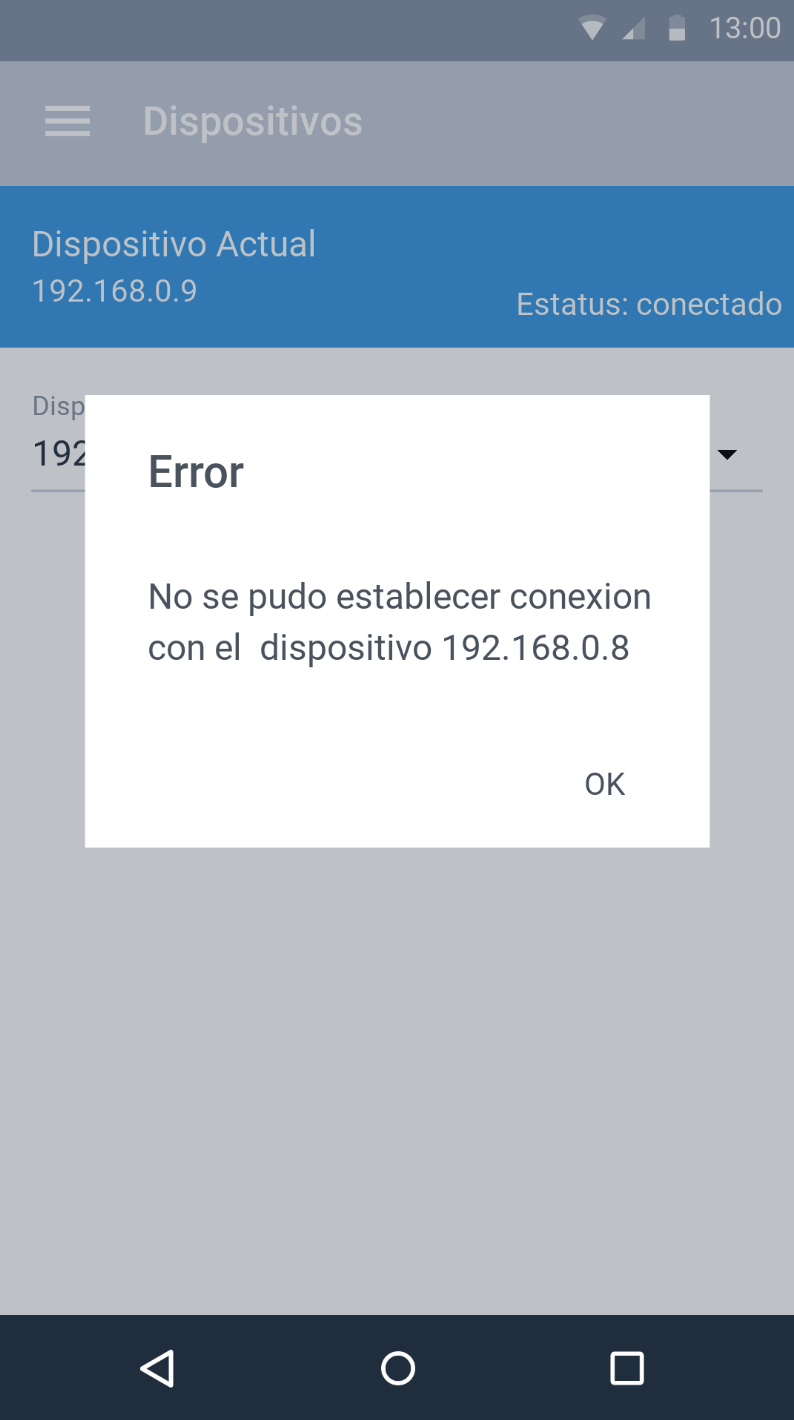
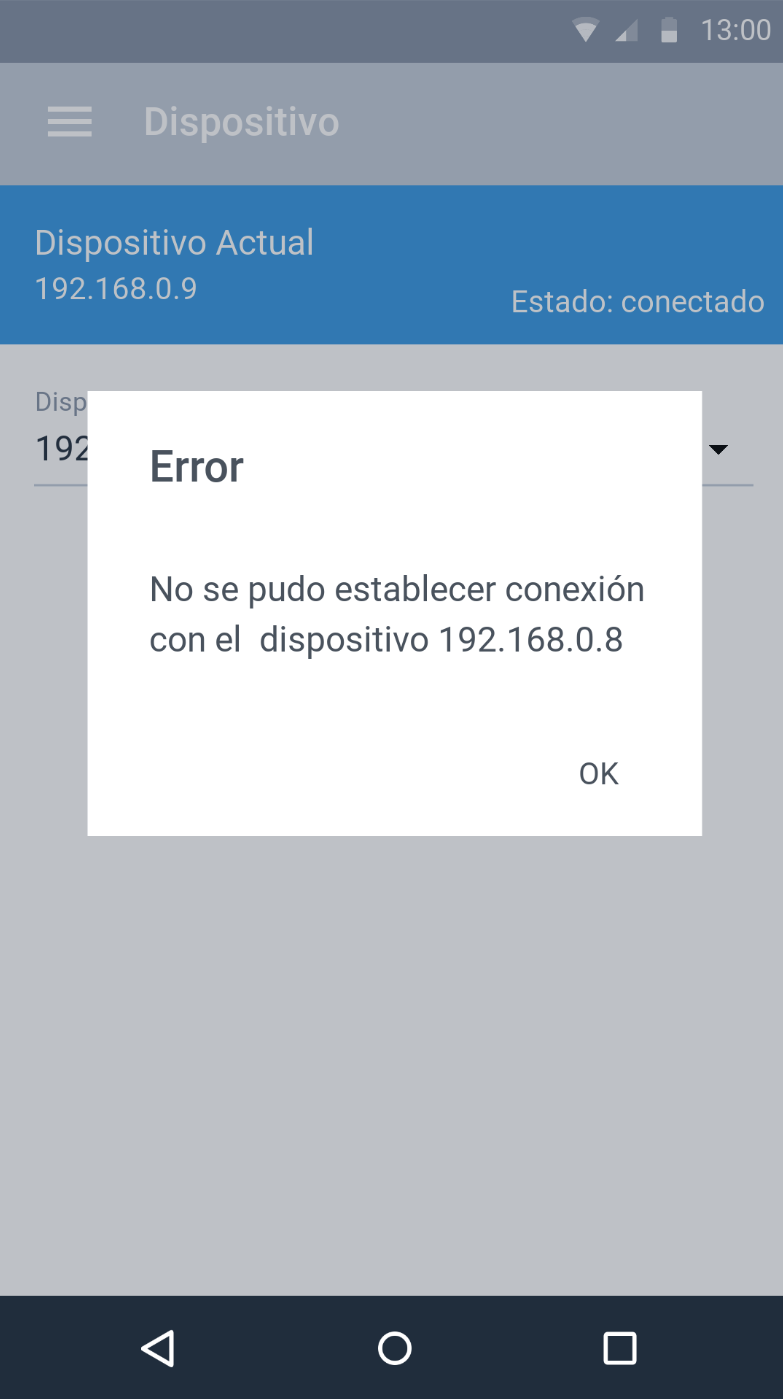
Updates from Overleaf

diff --git a/Capitulo4/software/menus.tex b/Capitulo4/software/menus.tex
@@ -1,11 +1,18 @@
 \subsubsection{Interfaces de Usuario}\label{Interfaces de Usuario}
 
-A continuación se muestra la pantalla principal que será visible siempre que se abra la aplicación, en ella se encuentra una gráfica con las muestras tomadas durante el transcurso del día, la cual nos permite ver el rendimiento de nuestro sistema. En la parte inferior vamos a poder observar la mejor marca de producción del día en Kw/Hr, y debajo de esta el estado de generación actual, es decir el valor sensado en ese mismo instante de tiempo en el que mantenemos abierta la aplicación, el cual se actualizará cada segundo. En la parte superior izquierda cuenta con una barra de navegación la cual nos permite acceder a otros componentes de la aplicación.  
+A continuación se muestra la pantalla principal que será visible siempre que se inicie la aplicación, bajo la barra de navegación encontraremos una barra de selección de nodo del sistema del cual visualizaremos la gráfica con las muestras tomadas durante el transcurso del día, por defecto mostrará los del primer o único nodo. En la parte inferior vamos a poder observar la mejor marca de producción del día en Kw/Hr, y debajo de esta el estado de generación actual, es decir, el valor sensado en ese mismo instante de tiempo en el que mantenemos abierta la aplicación, el cual se actualizará cada segundo. En la parte superior izquierda cuenta con una barra de navegación la cual nos permite acceder a otros componentes de la aplicación.  
 
 \begin{figure}[H]
 	\centering
 	\includegraphics[scale=0.70]{Capitulo4/software/submodulos/images/monitoreo.png}
-	\caption{Interfaz de usuario IU1-Ver Generación En Tiempo Real}
+	\caption{Interfaz de usuario IU1.1-Ver Generación En Tiempo Real}
+	\label{fig:monitoreo}
+\end{figure}
+
+\begin{figure}[H]
+	\centering
+	\includegraphics[scale=0.70]{Capitulo4/software/submodulos/images/monitoreo_sel.png}
+	\caption{Interfaz de usuario IU1.2-Ejemplo de opciones de selección de Nodo}
 	\label{fig:monitoreo}
 \end{figure}
 
@@ -18,7 +25,7 @@ La pantalla mostrada a continuación contiene las 4 posibles opciones que tiene 
 	\label{fig:Barra de navegacion}
 \end{figure}
 
-En la siguiente pantalla podemos observar la pantalla de históricos (opción disponible en la barra de navegación de la pantalla \ref{fig:Barra de navegacion}) , la cual por default siempre que sea accedida mostrará la gráfica de generación semanal. La pantalla posee un combo box en donde podremos seleccionar los 3 diferentes periodos a graficar, es decir, semanal, mensual y bimestral.
+En la siguiente pantalla podemos observar la pantalla de históricos (opción disponible en la barra de navegación de la pantalla \ref{fig:Barra de navegacion}) , la cual por defecto siempre que sea accedida mostrará la gráfica de generación semanal y con el primer o único nodo. La pantalla posee dos barras de selección, una en donde podremos seleccionar los 3 diferentes periodos a graficar, es decir, semanal, mensual y bimestral, y la segunda donde podremos seleccionar de que nodo del sistema nos mostrará la información histórica. 
 
 \begin{figure}[H]
 	\centering
@@ -56,7 +63,7 @@ La pantalla siguiente (opción disponible en la barra de navegación de la panta
 	\centering
 	\includegraphics[scale=0.70]{Capitulo4/software/submodulos/images/dispositivos.png}
 	\caption{Interfaz de usuario IU3.1-Emparejamiento de Dispositivos}
-	\label{fig:Emparejamiento Dispositivos}
+	\label{fig:Emparejamiento Dispositivo}
 \end{figure}
 
 Como se explica en la pantalla anterior, si damos clic en los dispositivos disponibles se despliega una lista con los dispositivos con los que se puede realizar una conexión, esto es visible en la pantalla mostrada a continuación.

diff --git a/Capitulo2/marco_teorico.tex b/Capitulo2/marco_teorico.tex
@@ -121,7 +121,44 @@ Diseñado específicamente para interconexiones en el sistema de distribución m
 	\caption{Microinversor M1-01-250}
 	\label{fig:diagrama_dispensador}
 \end{figure}
+
+
+\paragraph{Factor de Potencia}
+
+Para entender qué es el factor de potencia, primeramente vamos a definir una serie de conceptos básicos \citep{FP}.
+
+kW.- Potencia de trabajo, también llamada potencia activa, potencia real, etc. Es la potencia que se transforma en trabajo útil.
+
+kVAr.- Potencia reactiva. Es la potencia que los inductores necesitan para generar el flujo magnético y permitir crear un campo eléctrico.
+
+kVA.- Potencia aparente. Es la suma vectorial de los kVAr más los kW.
  
+El factor de potencia se define como la relación entre la potencia activa y la potencia aparente:
+
+\[ FP = kW / kVAr + kVA \]
+
+Esto quiere decir que, entre más potencia reactiva, menor factor de potencia, por lo tanto nuestro trabajo útil disminuirá y viceversa.\\
+
+La relación entre estos tres conceptos se materializa en el triángulo de potencias:
+
+\begin{figure}[H]
+	\centering
+	\includegraphics[scale=.50]{Capitulo2/images/triangulo-potencias.jpg}
+	\caption{Triangulo de Potencias}
+	\label{fig:diagrama_dispensador}
+\end{figure}
+
+\[ FP = kW / kVA = cos\theta \]
+\[ FP = kVar / kVA = sin\theta \]
+
+
+Por último, en este tema también es importante hablar de los tipos de cargas que existen:
+\\
+Resistencias.- Las resistencias se comportan como elementos no inerciales bajo el punto de vista de la relación tensión/intensidad, es decir, no se establece ninguna descoordinación temporal entre una y otra.\\
+
+Inductancias.- Las inductancias, por el contrario, se comportan como elementos con una inercia no despreciable desde el punto de vista de la relación tensión/intensidad, provocando una descoordinación temporal, un retraso en este caso, de la intensidad en relación a la tensión de alimentación.\\
+
+Capacitancias.- Finalmente las capacitancias, que se comportan también como elementos inerciales de naturaleza contraria a las inductancias, produciendo en este caso un adelanto de la intensidad en relación a la tensión de alimentación.
  
  \section{Wi-Fi}
  \paragraph{}

diff --git a/Capitulo1/descripcion_documento.tex b/Capitulo1/descripcion_documento.tex
@@ -2,7 +2,7 @@
 %                    Descripción del documento                           %
 %%%%%%%%%%%%%%%%%%%%%%%%%%%%%%%%%%%%%%%%%%%%%%%%%%%%%%%%%%%%%%%%%%%%%%%%%
 \section{Resumen}
-El sistema que se describe y diseña a continuación tiene como objetivo el monitoreo de generación de energía de un sistema fotovoltaico mediante el uso de una aplicación móvil bajo el concepto del internet de las cosas, que se refiere a una interconexión digital de objetos cotidianos con internet.
+El Sistema descrito y diseñado a continuación tiene como objetivo el monitoreo de la generación de energía de un Sistema fotovoltaico mediante el desarrollo de: un módulo de monitoreo que internamente está conformado por el dispositivo de sensado, el cual se comunica a su vez con el microcontrolador; un sistema embebido que permitirá el procesamiento y almacenamiento de la información monitoreada y una aplicación móvil que permita mantener informado al usuario sobre el estado del Sistema fotovoltaico, bajo el concepto del internet de las cosas, que se refiere a una interconexión digital de objetos cotidianos con Internet.
 
 \section{Palabras clave}
 Sistema embebido, IoT, Sistema Fotovoltaico, Nodo sensor, Red de sensores.

diff --git a/Capitulo1/justificacion.tex b/Capitulo1/justificacion.tex
@@ -3,4 +3,4 @@
 %%%%%%%%%%%%%%%%%%%%%%%%%%%%%%%%%%%%%%%%%%%%%%%%%%%%%%%%%%%%%%%%%%%%%%%%%
 \section{Justificación}
 El incremento en el uso de fuentes de energía renovables en la actualidad tiene cada vez mayor relevancia debido a que en países como México, tiene un costo inferior de obtención que los combustibles fósiles \citep{Not1}, gracias al progreso que se ha logrado en este campo, la utilización de energía solar incrementó en un 13\% en México en el 2018 \citep{Not2}, siendo así la energía fotovoltaica una de las fuentes renovables más accesibles y eficientes para su aplicación en proyectos de pequeña o gran magnitud.
-El presente trabajo terminal ofrece un sistema que permitirá a los usuarios de sistemas fotovoltaicos consultar y monitorear mediante una aplicación las variables de voltaje y corriente para que estos tengan conocimiento de la producción de energía de la instalación.
+El presente trabajo terminal ofrece un sistema que permitirá a los usuarios de sistemas fotovoltaicos consultar y monitorear mediante una aplicación las variable de potencia activa para que estos tengan conocimiento de la producción de energía de la instalación.

diff --git a/Capitulo4/hardware/principal.tex b/Capitulo4/hardware/principal.tex
@@ -1,11 +1,11 @@
 \section{Hardware}
-En la imagen \ref{fig:circuito} se muestra el circuito que será utilizado para realizar la medición del flujo de gasolina y la comunicación por medio de bluetooth a la aplicación móvil.
+En la figura \ref{fig:circuito} se muestra el diagrama a bloques del módulo de monitoreo que será utilizado para realizar la medición de la potencia activa que proviene del Sistema Fotovoltaico y la comunicación que existirá entre el Monitor de potencia con el Microcontrolador, así como la comunicación entre el Microcontrolador y el Módulo WiFi; este último módulo a su vez estará comunicándose con el Servidor embebido por medio del protocolo TCP.  
 \\
 \begin{figure}[H]
 	\centering
-	\includegraphics[width=1\textwidth]{Capitulo4/hardware/images/Caudalimetro}
-	\caption{Circuito del sensor y comunicación}
+	\includegraphics[width=1\textwidth]{Capitulo4/hardware/images/sistemaDigital.png}
+	\caption{Diagrama a bloques del módulo de monitoreo}
 	\label{fig:circuito}
 \end{figure}
 
-\input{Capitulo4/hardware/submodulos/submodulos}
+%\input{Capitulo4/hardware/submodulos/submodulos}

diff --git a/Capitulo1/planteamiento_problema.tex b/Capitulo1/planteamiento_problema.tex
@@ -4,5 +4,5 @@
 
 \section{Planteamiento del problema}
 
-La necesidad que atenderá la aplicación es monitorear el voltaje y corriente que se está generando en tiempo real para que el usuario pueda consultar dicha información con el objeto de tener en continua observación los sistemas de generación de energía para atender los fallos, accidentes o anomalías que puedan afectar su correcto funcionamiento, con lo que se podrán disminuir pérdidas cuando se trata de una de las principales fuentes de abastecimiento, así como brindar un registro histórico de la producción de energía.
+La necesidad que atenderá la aplicación es monitorear la potencia activa que se está generando en tiempo real para que el usuario pueda consultar dicha información con el objeto de tener en continua observación los sistemas de generación de energía para atender los fallos, accidentes o anomalías que puedan afectar su correcto funcionamiento, con lo que se podrán disminuir pérdidas cuando se trata de una de las principales fuentes de abastecimiento, así como brindar un registro histórico de la producción de energía.
 

diff --git a/Capitulo1/objetivos.tex b/Capitulo1/objetivos.tex
@@ -5,7 +5,7 @@
 \section{Objetivos}
 
 \subsection{Objetivo general}
-Este trabajo tiene por objetivo desarrollar un prototipo de sistema que permita monitorear el voltaje y la corriente de los usuarios de sistemas fotovoltaicos haciendo uso de un sensor para la adquisición de los datos, un microprocesador para el envió y recepción de la información que recauda el sensor, un sistema embebido a partir de una tarjeta de desarrollo para su almacenamiento y posterior consumo en la aplicación de usuario.
+Este trabajo tiene por objetivo desarrollar un prototipo de sistema que permita monitorear la potencia activa de los usuarios de sistemas fotovoltaicos haciendo uso de un sensor para la adquisición de los datos, un microprocesador para el envío y recepción de la información que recauda el sensor, un sistema embebido a partir de una tarjeta de desarrollo para su almacenamiento y posterior consumo en la aplicación de usuario.
 
 \subsection{Objetivos específicos}
 \begin{enumerate}[label=\arabic*.]

diff --git a/Capitulo4/hardware/submodulos/submodulos.tex b/Capitulo4/hardware/submodulos/submodulos.tex
@@ -1,5 +1,5 @@
-\input{Capitulo4/hardware/submodulos/medicion/principal}
-\input{Capitulo4/hardware/submodulos/microcontrolador/principal}
-\input{Capitulo4/hardware/submodulos/comunicacion/principal}
+%\input{Capitulo4/hardware/submodulos/medicion/principal}
+%\input{Capitulo4/hardware/submodulos/microcontrolador/principal}
+%\input{Capitulo4/hardware/submodulos/comunicacion/principal}
 
 %COMENTAR TODO LO DE ARRIBA
